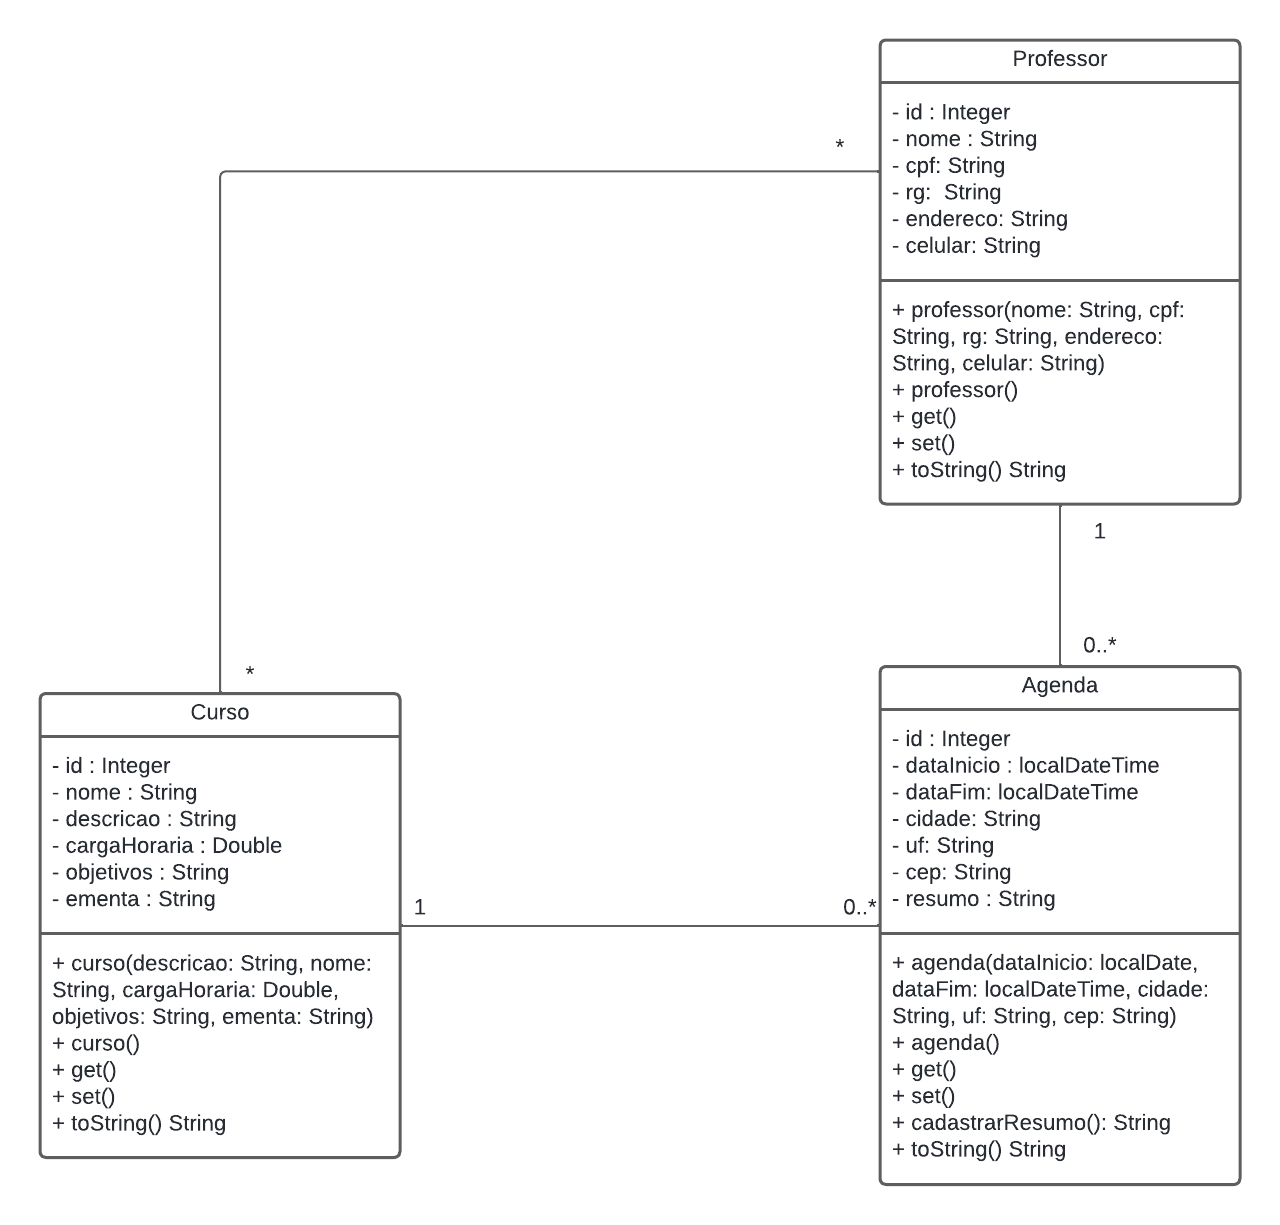
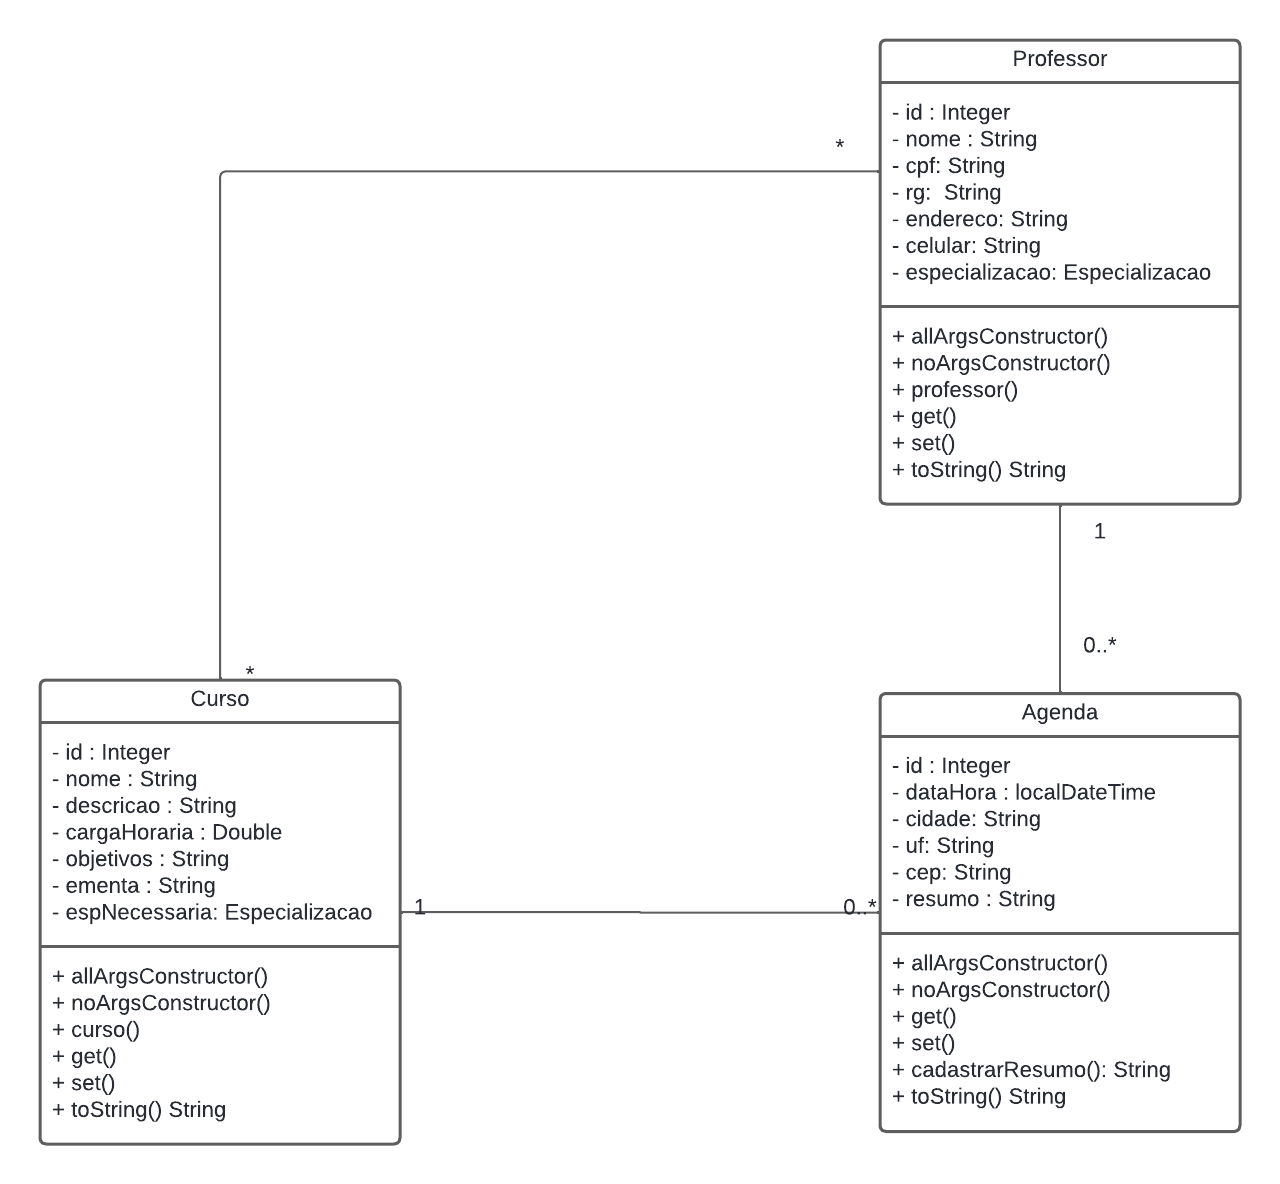
refactor: change data + hora to dataHora

Changed region(s): [[0.0312, 0.5312, 0.9688, 0.9688], [0.1875, 0.0312, 0.9688, 0.4375]]

diff --git a/src/main/java/com/laranjeirosgroup/ac2/Controllers/AgendaController.java b/src/main/java/com/laranjeirosgroup/ac2/Controllers/AgendaController.java
@@ -13,7 +13,6 @@ import org.springframework.http.HttpStatus;
 import org.springframework.http.ResponseEntity;
 import org.springframework.web.bind.annotation.*;
 
-import java.time.LocalDateTime;
 import java.util.List;
 import java.util.Optional;
 
@@ -34,7 +33,7 @@ public class AgendaController {
   public ResponseEntity<Object> register(@RequestBody @Valid AgendaDTO agendaDTO) {
     Optional<Curso> curso = cursoService.getCursoById(agendaDTO.curso());
     Optional<Professor> professor = professorService.getProfessorById(agendaDTO.professor());
-    boolean agendaDisponivel = professorService.verificarDisponibilidadeProfessor(agendaDTO.professor(), agendaDTO.data());
+    boolean agendaDisponivel = professorService.verificarDisponibilidadeProfessor(agendaDTO.professor(), agendaDTO.dataHora());
 
     if (!agendaDisponivel) {
       return ResponseEntity.status(HttpStatus.BAD_REQUEST).body("Professor sem horário disponível");

diff --git a/src/main/java/com/laranjeirosgroup/ac2/Repositories/ProfessorRepository.java b/src/main/java/com/laranjeirosgroup/ac2/Repositories/ProfessorRepository.java
@@ -13,6 +13,6 @@ import java.util.List;
 public interface ProfessorRepository extends JpaRepository<Professor, Integer> {
     List<Professor> findByEspecializacao(Especializacao especializacao);
 
-    @Query("SELECT COUNT(a) FROM Agenda a WHERE a.professor.id = :professorId AND a.data = :data")
-    int countAgendasByProfessorAndDate(int professorId, LocalDateTime data);
+    @Query("SELECT COUNT(a) FROM Agenda a WHERE a.professor.id = :professorId AND a.dataHora = :dataHora")
+    int countAgendasByProfessorAndDate(int professorId, LocalDateTime dataHora);
 }

diff --git a/src/main/java/com/laranjeirosgroup/ac2/Models/Agenda.java b/src/main/java/com/laranjeirosgroup/ac2/Models/Agenda.java
@@ -30,8 +30,7 @@ public class Agenda implements Serializable {
     @JsonIgnoreProperties({"agenda", "professor"})
     private Curso curso;
 
-    private LocalDateTime data;
-    private LocalDateTime horario;
+    private LocalDateTime dataHora;
     private String cidade;
     private String uf;
     private String cep;

diff --git a/src/main/java/com/laranjeirosgroup/ac2/Dtos/AgendaDTO.java b/src/main/java/com/laranjeirosgroup/ac2/Dtos/AgendaDTO.java
@@ -6,8 +6,7 @@ import jakarta.validation.constraints.NotNull;
 import java.time.LocalDateTime;
 
 public record AgendaDTO(
-    @NotNull LocalDateTime data,
-    @NotNull LocalDateTime horario,
+    @NotNull LocalDateTime dataHora,
     @NotBlank String cidade,
     @NotBlank String uf,
     @NotBlank String cep,
